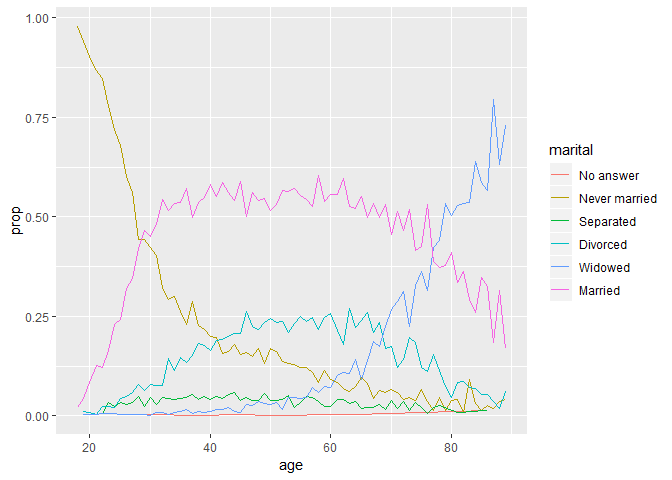
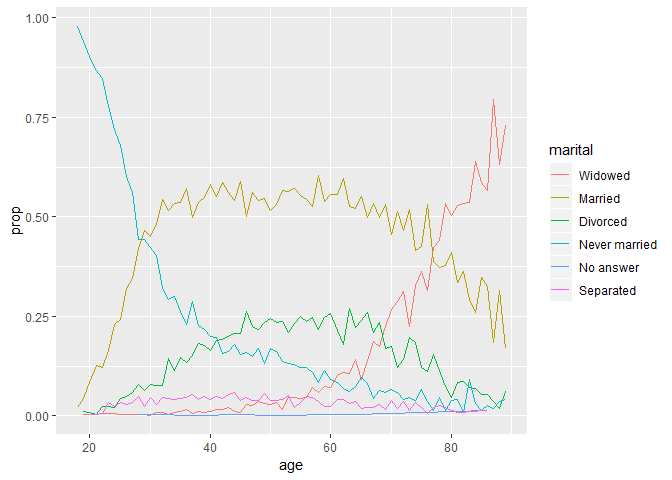
update 15 Factors

diff --git a/docs/R for Data Science/15-Factors.md b/docs/R for Data Science/15-Factors.md
@@ -281,9 +281,7 @@ rincome_summary %>%
   geom_point()
 ```
 
-왜 "Not applicable"의 평균 연령이 이렇게 높은 것 같나?
-
-<details> 음.. 아마 은퇴한 사람은 소득이 없어서 not applicable을 체크하고, 그 사람들은 나이가 많으니깐? </details>
+<details> <summary>왜 "Not applicable"의 평균 연령이 이렇게 높은 것 같나?</summary> 음.. 아마 은퇴한 사람은 소득이 없어서 not applicable을 체크하고, 그 사람들은 나이가 많으니깐? </details>
 
 reordering이 유용한 또 하나의 케이스는, plot에서 lines에 색을 넣을 때 그렇다. 'fct\_reorder2()'는 "가장 큰 `x`값과 결합되어 있는 `y`값"에 따라 reorder할 수 있게끔 해준다. 이러면 legend에 써져 있는대로 읽으면 되기 때문에 plot을 읽기가 쉬워진다.
 
@@ -296,20 +294,15 @@ by_age <- gss_cat %>%
   group_by(age) %>% 
   mutate(prop = n / sum(n))
 
-layout(t(1:2))
 ggplot(by_age, aes(age, prop, color = marital)) + 
   geom_line(na.rm = TRUE)
-```
 
-![](15-Factors_files/figure-markdown_github/unnamed-chunk-24-1.png)
-
-``` r
 ggplot(by_age, aes(age, prop, color = fct_reorder2(marital, age, prop))) +
   geom_line(na.rm = TRUE) +
   labs(color = "marital")
 ```
 
-![](15-Factors_files/figure-markdown_github/unnamed-chunk-24-2.png)
+<img src="15-Factors_files/figure-markdown_github/unnamed-chunk-24-1.png" width="300px" />
 
 왼쪽의 이러면 legend에 있는대로 맨 위의 No answer 선을 찾아볼까? 어... 맨 위에 깔려있어서 한 눈에 못 알아봤네. 이럴 때 `fct_reorder()`를 쓰면 보기 편해진다는 거다. 오른쪽과 같이.
 
